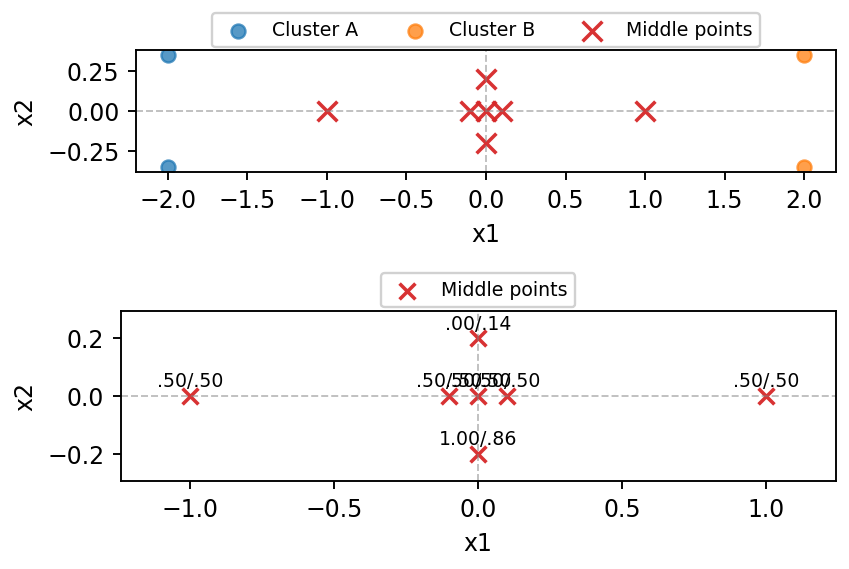
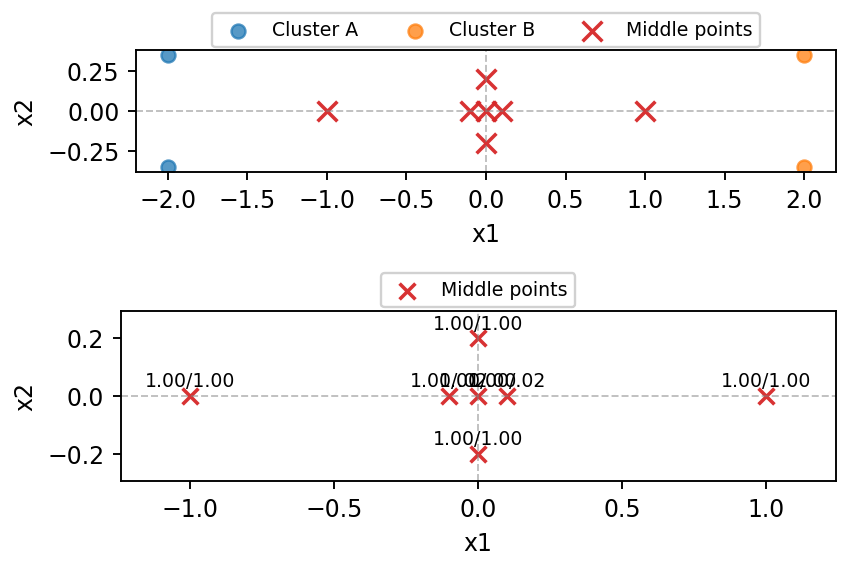
Changed gmm_testing logic

diff --git a/gmm_testing/main.py b/gmm_testing/main.py
@@ -36,6 +36,10 @@ def run_command(command, env=None):
         universal_newlines=True,
         env=env,
     )
+    if result.stdout:
+        print(result.stdout, end="")
+    if result.stderr:
+        print(result.stderr, end="", file=sys.stderr)
     if result.returncode != 0:
         raise RuntimeError(
             "Command failed:\n{}\n\nSTDOUT:\n{}\n\nSTDERR:\n{}".format(
@@ -44,6 +48,7 @@ def run_command(command, env=None):
                 result.stderr,
             )
         )
+    return result
 
 
 def run_sklearn(dataset_path, output_path):

diff --git a/gmm_testing/sklearn_gmm.py b/gmm_testing/sklearn_gmm.py
@@ -25,7 +25,7 @@ def component_for_cluster_a(gmm, x_train_scaled, labels):
 
 def run(dataset_path, output_path):
     df = pd.read_csv(dataset_path)
-    train_df = df[df["cluster"].isin(["A", "B"])].copy()
+    train_df = df[df["cluster"].isin(["A", "B", "middle"])].copy() #["A", "B"]
 
     x_train = train_df[FEATURES].to_numpy(dtype=float)
     x_all = df[FEATURES].to_numpy(dtype=float)
